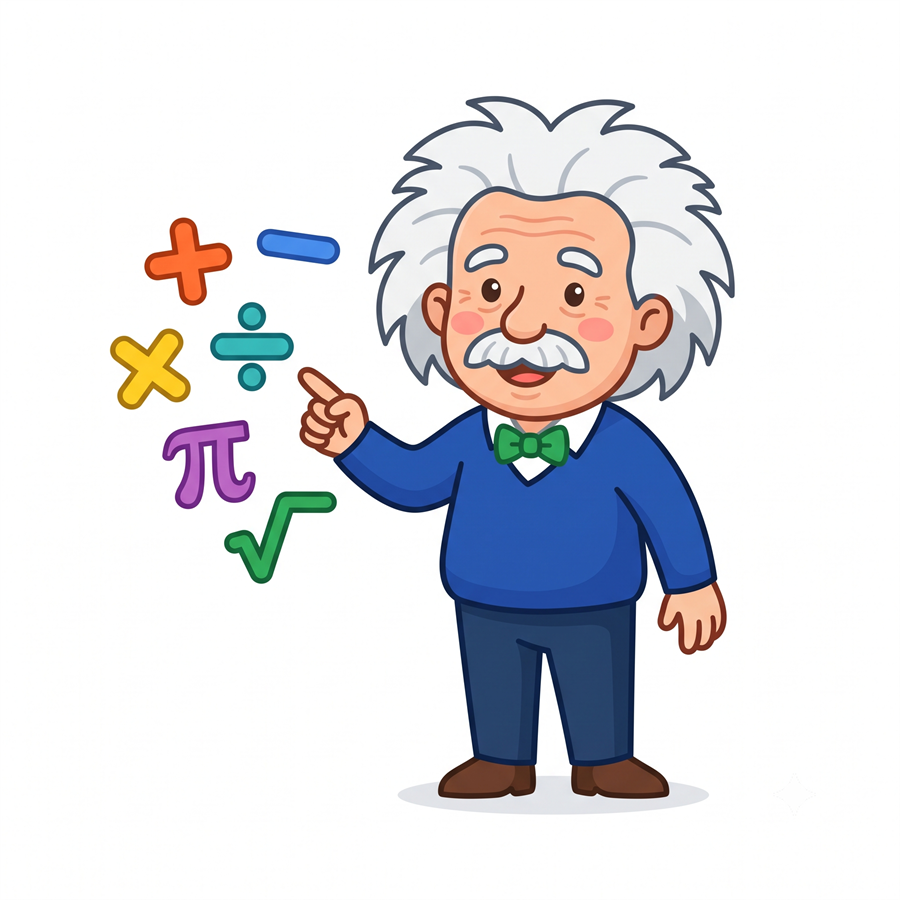
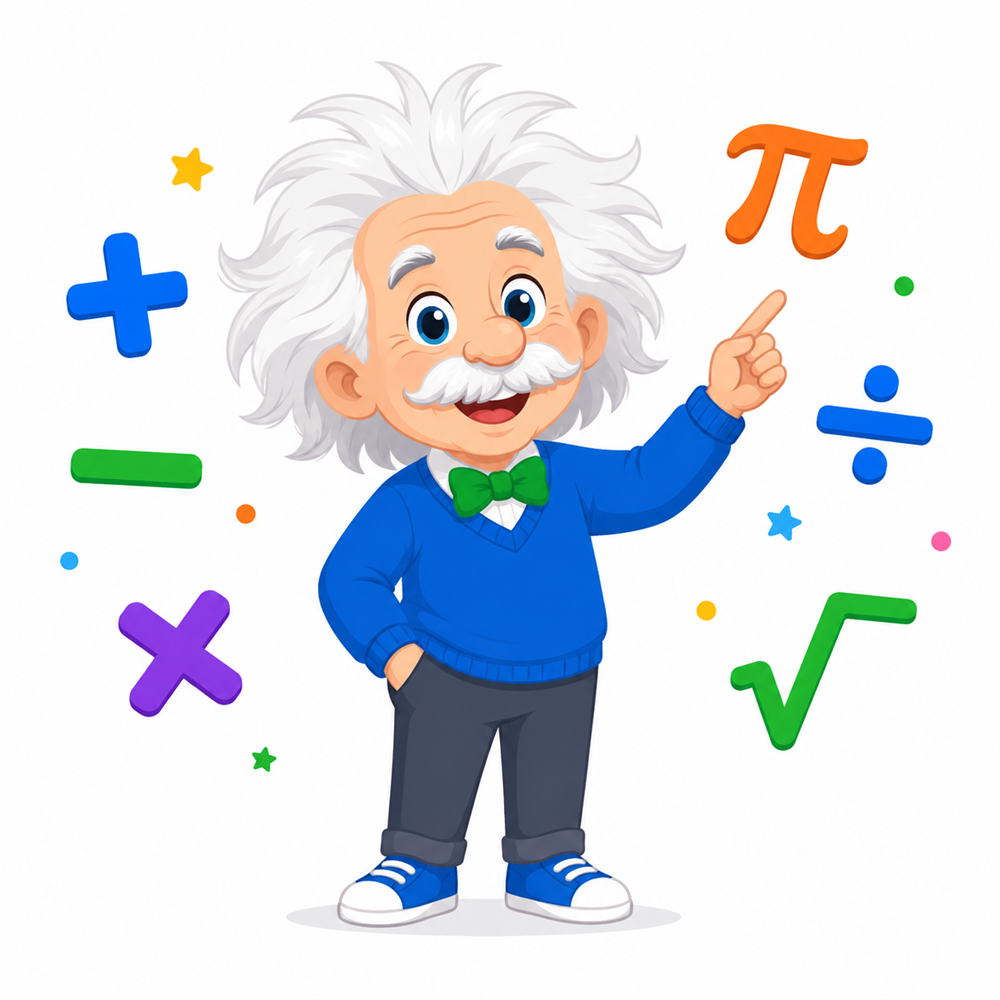
Premium hero: 3D math/science explosion on hover + First-In-Math moving signs
- Hover (or tap) the Einstein "logo" and math + science explode outward in
  pseudo-3D: perspective + translateZ + rotateX/Y springs fling out
  pi, sum, integral, root, infinity, delta, theta, lambda, an atom and an
  E=mc2 pill; the framed card tilts in 3D and a brand-colour glow swells.
- Ambient glossy operator badges (div, times, plus, root) gently drift at
  the card's edges even at rest, so there's always motion (First In Math
  energy) with a "hover me" affordance that fades on interaction.
- Wrapped the character in a premium gradient/ring/shadow card.
- Swapped the hero art to the ChatGPT-generated Einstein (glossy 3D symbols,
  brand blue sweater + green bow tie) and cleared the stale image cache.

diff --git a/src/pages/components/landing/HeroSection.tsx b/src/pages/components/landing/HeroSection.tsx
@@ -1,4 +1,4 @@
-import { motion } from "framer-motion";
+import { motion, type Variants } from "framer-motion";
 import Image from "next/image";
 
 const stats = [
@@ -8,6 +8,51 @@ const stats = [
   { value: "4.9★", label: "from 84 parents" },
   { value: "20+", label: "countries taught" },
 ];
+
+// Math + science glyphs that "explode" outward in pseudo-3D when the hero is hovered.
+// x/y are px offsets from the character's centre; z (translateZ) + rx/ry give real depth
+// under the container's perspective. s = final scale, d = stagger delay.
+type Burst = { c: string; x: number; y: number; z: number; rx: number; ry: number; s: number; color: string; d: number; pill?: boolean };
+const BURST: Burst[] = [
+  { c: "π", x: -140, y: -152, z: 140, rx: 20, ry: -30, s: 1.6, color: "#f59e0b", d: 0.0 },
+  { c: "∑", x: 142, y: -146, z: 90, rx: -15, ry: 25, s: 1.35, color: "#2563eb", d: 0.04 },
+  { c: "∫", x: 186, y: -14, z: 160, rx: 10, ry: 35, s: 1.7, color: "#16a34a", d: 0.07 },
+  { c: "√", x: 150, y: 122, z: 60, rx: -20, ry: 20, s: 1.3, color: "#7c3aed", d: 0.1 },
+  { c: "∞", x: 14, y: 180, z: 110, rx: 25, ry: -10, s: 1.45, color: "#0891b2", d: 0.13 },
+  { c: "Δ", x: -140, y: 140, z: 50, rx: -15, ry: -25, s: 1.3, color: "#db2777", d: 0.16 },
+  { c: "θ", x: -186, y: 14, z: 150, rx: 15, ry: -35, s: 1.6, color: "#2563eb", d: 0.06 },
+  { c: "λ", x: -150, y: -130, z: 70, rx: -10, ry: -20, s: 1.2, color: "#16a34a", d: 0.11 },
+  { c: "⚛", x: 74, y: -180, z: 190, rx: 30, ry: 15, s: 1.75, color: "#0ea5e9", d: 0.02 },
+  { c: "±", x: -96, y: 80, z: 45, rx: -18, ry: 15, s: 1.15, color: "#16a34a", d: 0.18 },
+  { c: "%", x: 96, y: -40, z: 80, rx: 0, ry: -30, s: 1.1, color: "#f59e0b", d: 0.15 },
+  { c: "E=mc²", x: 116, y: 62, z: 200, rx: 8, ry: -18, s: 1.05, color: "#0f172a", d: 0.0, pill: true },
+];
+
+// Always-on "moving signs" (First In Math energy) — glossy operator badges that
+// gently drift at the card's edges even before you hover.
+const AMBIENT = [
+  { c: "÷", bg: "#2563eb", cls: "-top-5 left-8", dur: 4.5, delay: 0 },
+  { c: "×", bg: "#f59e0b", cls: "-top-3 right-8", dur: 5.2, delay: 0.6 },
+  { c: "+", bg: "#16a34a", cls: "bottom-16 -left-4", dur: 4.8, delay: 0.3 },
+  { c: "√", bg: "#7c3aed", cls: "top-1/3 -right-5", dur: 5.6, delay: 0.9 },
+];
+
+const CARD_V: Variants = {
+  rest: { rotateX: 0, rotateY: 0, scale: 1 },
+  explode: { rotateX: 3, rotateY: -5, scale: 1.02 },
+};
+const GLOW_V: Variants = {
+  rest: { opacity: 0.5, scale: 0.9 },
+  explode: { opacity: 1, scale: 1.18 },
+};
+const HINT_V: Variants = {
+  rest: { opacity: 1, y: 0 },
+  explode: { opacity: 0, y: 6 },
+};
+const burstV = (b: Burst): Variants => ({
+  rest: { x: 0, y: 0, z: 0, rotateX: 0, rotateY: 0, scale: 0.2, opacity: 0 },
+  explode: { x: b.x, y: b.y, z: b.z, rotateX: b.rx, rotateY: b.ry, scale: b.s, opacity: 1 },
+});
 
 const HeroSection = () => {
   return (
@@ -117,56 +162,105 @@ function Shield() {
 function EinsteinPanel() {
   return (
     <div className="relative mx-auto max-w-md">
-      {/* the character + its floating overlays live in this box so the chips
-          anchor to the image, not to the caption below it */}
-      <div className="relative">
-        {/* soft brand glow behind the character */}
-        <div
+      <motion.div
+        className="group relative cursor-pointer"
+        style={{ perspective: 1200 }}
+        initial="rest"
+        animate="rest"
+        whileHover="explode"
+        whileTap="explode"
+      >
+        {/* glowing brand aura that swells on hover */}
+        <motion.div
           aria-hidden
-          className="pointer-events-none absolute inset-6 rounded-full blur-3xl"
+          variants={GLOW_V}
+          transition={{ type: "spring", stiffness: 120, damping: 18 }}
+          className="pointer-events-none absolute inset-2 -z-10 rounded-[2.4rem] blur-2xl"
           style={{
             background:
-              "radial-gradient(circle at 62% 42%, rgba(37,99,235,0.18), transparent 60%), radial-gradient(circle at 30% 68%, rgba(22,163,74,0.16), transparent 62%)",
+              "radial-gradient(circle at 60% 42%, rgba(37,99,235,0.28), transparent 60%), radial-gradient(circle at 30% 70%, rgba(22,163,74,0.24), transparent 62%), radial-gradient(circle at 78% 74%, rgba(245,158,11,0.18), transparent 60%)",
           }}
         />
 
-        {/* thought bubble */}
+        {/* premium framed card holding the character */}
         <motion.div
-          animate={{ y: [0, -6, 0] }}
-          transition={{ duration: 4, repeat: Infinity, ease: "easeInOut" }}
-          className="absolute right-2 top-2 z-20 rounded-2xl rounded-br-sm border border-border bg-white px-4 py-2 font-mono text-sm font-bold text-primary shadow-md"
+          variants={CARD_V}
+          transition={{ type: "spring", stiffness: 180, damping: 18 }}
+          style={{ transformStyle: "preserve-3d" }}
+          className="relative rounded-[2rem] border border-white/70 bg-gradient-to-br from-white via-white to-accent/60 shadow-[0_34px_90px_-32px_rgba(15,23,42,0.4)] ring-1 ring-black/5"
         >
-          E = mc²
+          <Image
+            src="/einstein-hero.png"
+            alt="Friendly cartoon of Albert Einstein playing with math symbols"
+            width={1000}
+            height={1000}
+            priority
+            className="relative z-10 mx-auto h-auto w-full drop-shadow-sm"
+          />
+
+          {/* the exploding math + science */}
+          {BURST.map((b, i) => (
+            <motion.span
+              key={i}
+              variants={burstV(b)}
+              transition={{ type: "spring", stiffness: 170, damping: 12, delay: b.d }}
+              style={{
+                color: b.color,
+                transformStyle: "preserve-3d",
+                filter: "drop-shadow(0 8px 12px rgba(15,23,42,0.18))",
+              }}
+              className={
+                b.pill
+                  ? "pointer-events-none absolute left-1/2 top-1/2 z-20 -translate-x-1/2 -translate-y-1/2 rounded-full bg-white px-2.5 py-1 font-mono text-sm font-bold text-foreground shadow-md ring-1 ring-black/10"
+                  : "pointer-events-none absolute left-1/2 top-1/2 z-20 -translate-x-1/2 -translate-y-1/2 text-4xl font-black leading-none"
+              }
+            >
+              {b.c}
+            </motion.span>
+          ))}
+
+          {/* affordance — fades out the moment it explodes */}
+          <motion.div
+            variants={HINT_V}
+            transition={{ duration: 0.25 }}
+            className="pointer-events-none absolute bottom-3 left-1/2 z-30 -translate-x-1/2 rounded-full bg-foreground/85 px-3 py-1 text-[11px] font-semibold text-white shadow-md backdrop-blur"
+          >
+            ✨ hover me
+          </motion.div>
         </motion.div>
 
-        <Image
-          src="/einstein-hero.png"
-          alt="Friendly cartoon of Albert Einstein playing with math symbols"
-          width={900}
-          height={900}
-          priority
-          className="relative z-10 mx-auto h-auto w-full"
-        />
+        {/* ambient "moving signs" — always drifting, First In Math energy */}
+        {AMBIENT.map((a, i) => (
+          <motion.span
+            key={i}
+            animate={{ y: [0, -12, 0], rotate: [0, 7, 0] }}
+            transition={{ duration: a.dur, delay: a.delay, repeat: Infinity, ease: "easeInOut" }}
+            style={{ background: a.bg }}
+            className={`pointer-events-none absolute ${a.cls} z-30 flex h-11 w-11 items-center justify-center rounded-2xl text-xl font-black text-white shadow-lg`}
+          >
+            {a.c}
+          </motion.span>
+        ))}
 
-        {/* floating joy chips */}
+        {/* joy chips ride the card corners */}
         <motion.div
-          animate={{ y: [0, -8, 0] }}
-          transition={{ duration: 4, repeat: Infinity, ease: "easeInOut" }}
-          className="absolute bottom-16 left-0 z-20 rounded-xl border border-border bg-card px-3 py-2 text-xs font-semibold text-foreground shadow-lg"
+          variants={{ rest: { y: 0, rotate: 0 }, explode: { y: -6, rotate: -3 } }}
+          transition={{ type: "spring", stiffness: 200, damping: 14 }}
+          className="absolute -bottom-3 left-1 z-30 rounded-xl border border-border bg-card px-3 py-2 text-xs font-semibold text-foreground shadow-lg"
         >
           ✨ it just clicked
         </motion.div>
         <motion.div
-          animate={{ y: [0, 8, 0] }}
-          transition={{ duration: 5, repeat: Infinity, ease: "easeInOut", delay: 1 }}
-          className="absolute bottom-8 right-0 z-20 rounded-xl border border-border bg-card px-3 py-2 text-xs font-semibold text-foreground shadow-lg"
+          variants={{ rest: { y: 0, rotate: 0 }, explode: { y: 6, rotate: 3 } }}
+          transition={{ type: "spring", stiffness: 200, damping: 14 }}
+          className="absolute -bottom-3 right-1 z-30 rounded-xl border border-border bg-card px-3 py-2 text-xs font-semibold text-foreground shadow-lg"
         >
           🎉 &ldquo;do another one!&rdquo;
         </motion.div>
-      </div>
+      </motion.div>
 
       {/* caption */}
-      <div className="relative z-10 mt-3 text-center">
+      <div className="relative z-10 mt-8 text-center">
         <p className="font-display text-lg font-extrabold text-foreground">
           &ldquo;Ohhh — <span className="text-secondary">that&apos;s</span>{" "}how it works.&rdquo;
         </p>
